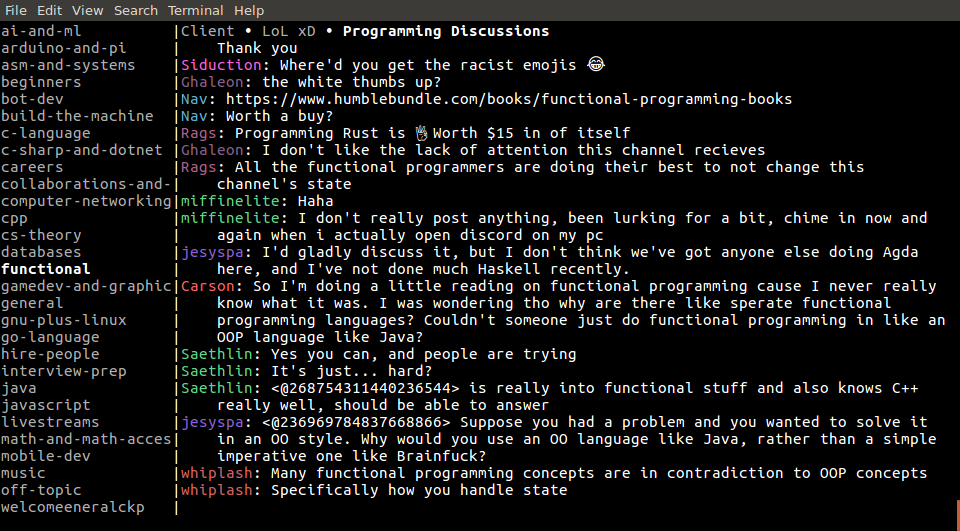
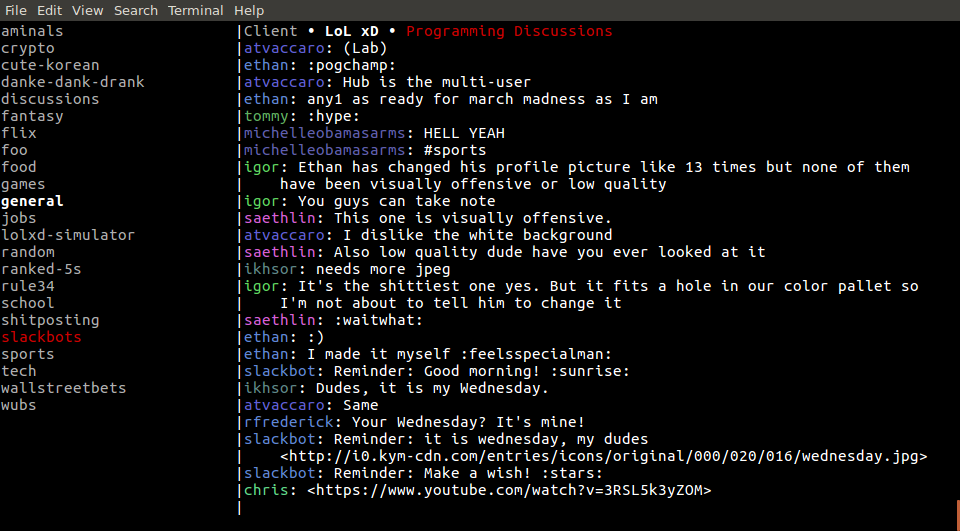
replace magic channel with in draw_message_area

Changed region(s): [[0.0, 0.0301, 1.0, 0.9642]]

diff --git a/src/tui.rs b/src/tui.rs
@@ -406,10 +406,15 @@ impl TUI {
     #[allow(unused_must_use)]
     fn draw_message_area(&self) {
         use termion::cursor::Goto;
+        let chan_width = self.servers
+            .iter()
+            .flat_map(|s| s.channels.iter().map(|c| c.name.len()))
+            .max()
+            .unwrap() as u16 + 1;
+
         let out = std::io::stdout();
         let mut lock = out.lock();
 
-        let chan_width = 20;
         let (width, height) =
             termion::terminal_size().expect("TUI draw couldn't get terminal dimensions");
 
